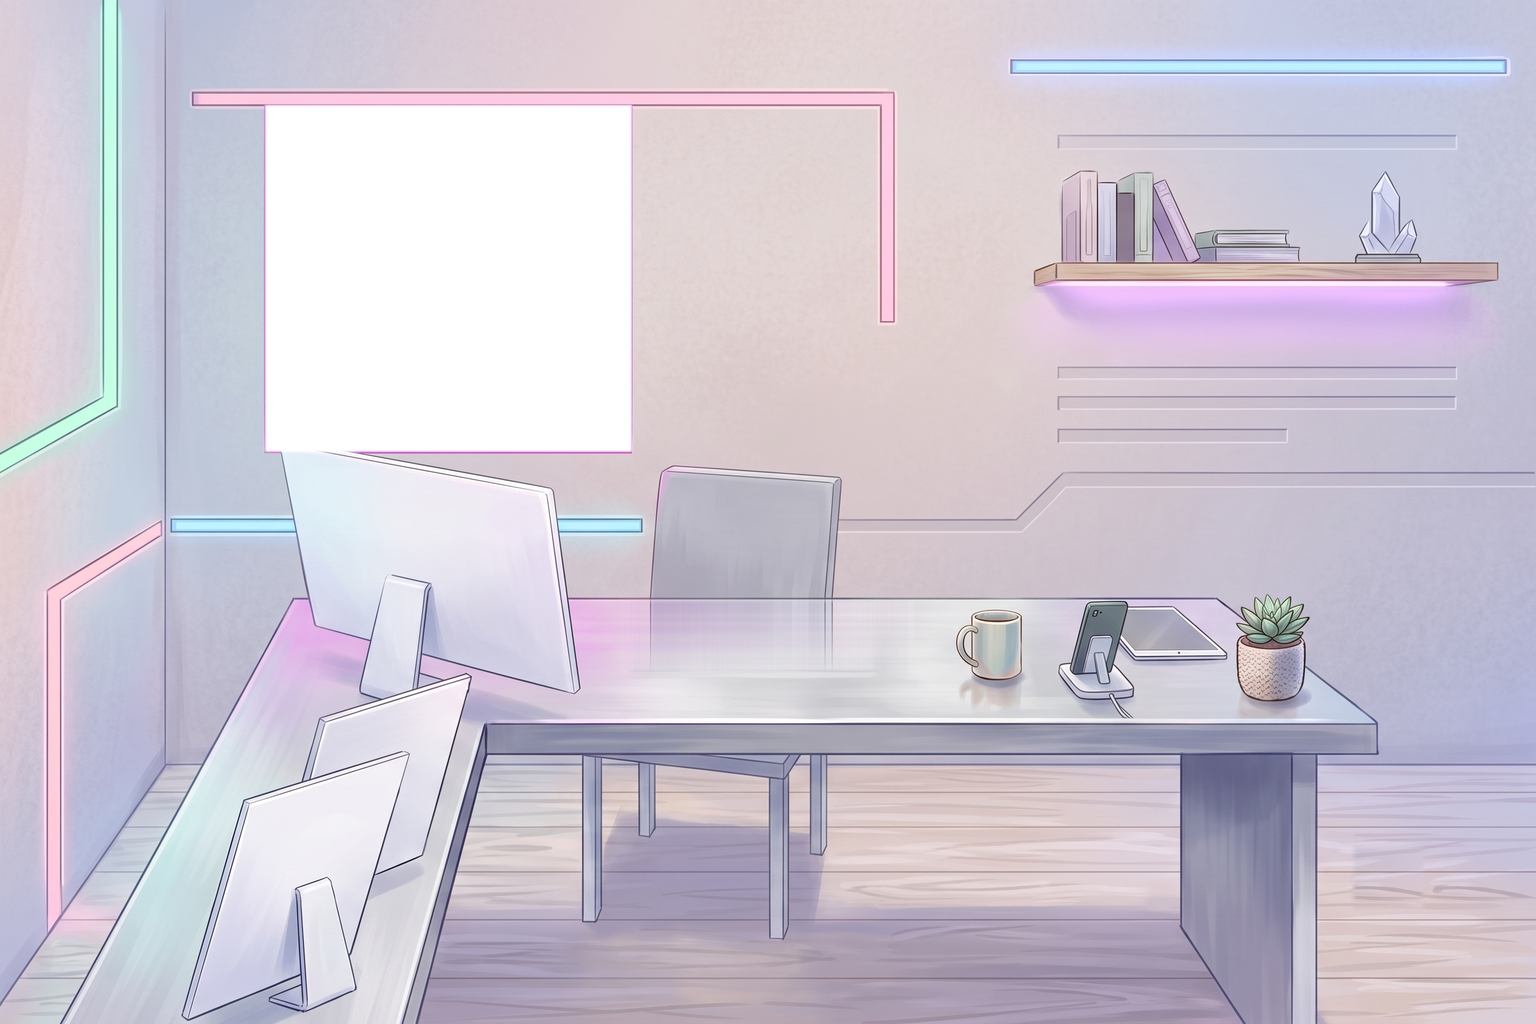
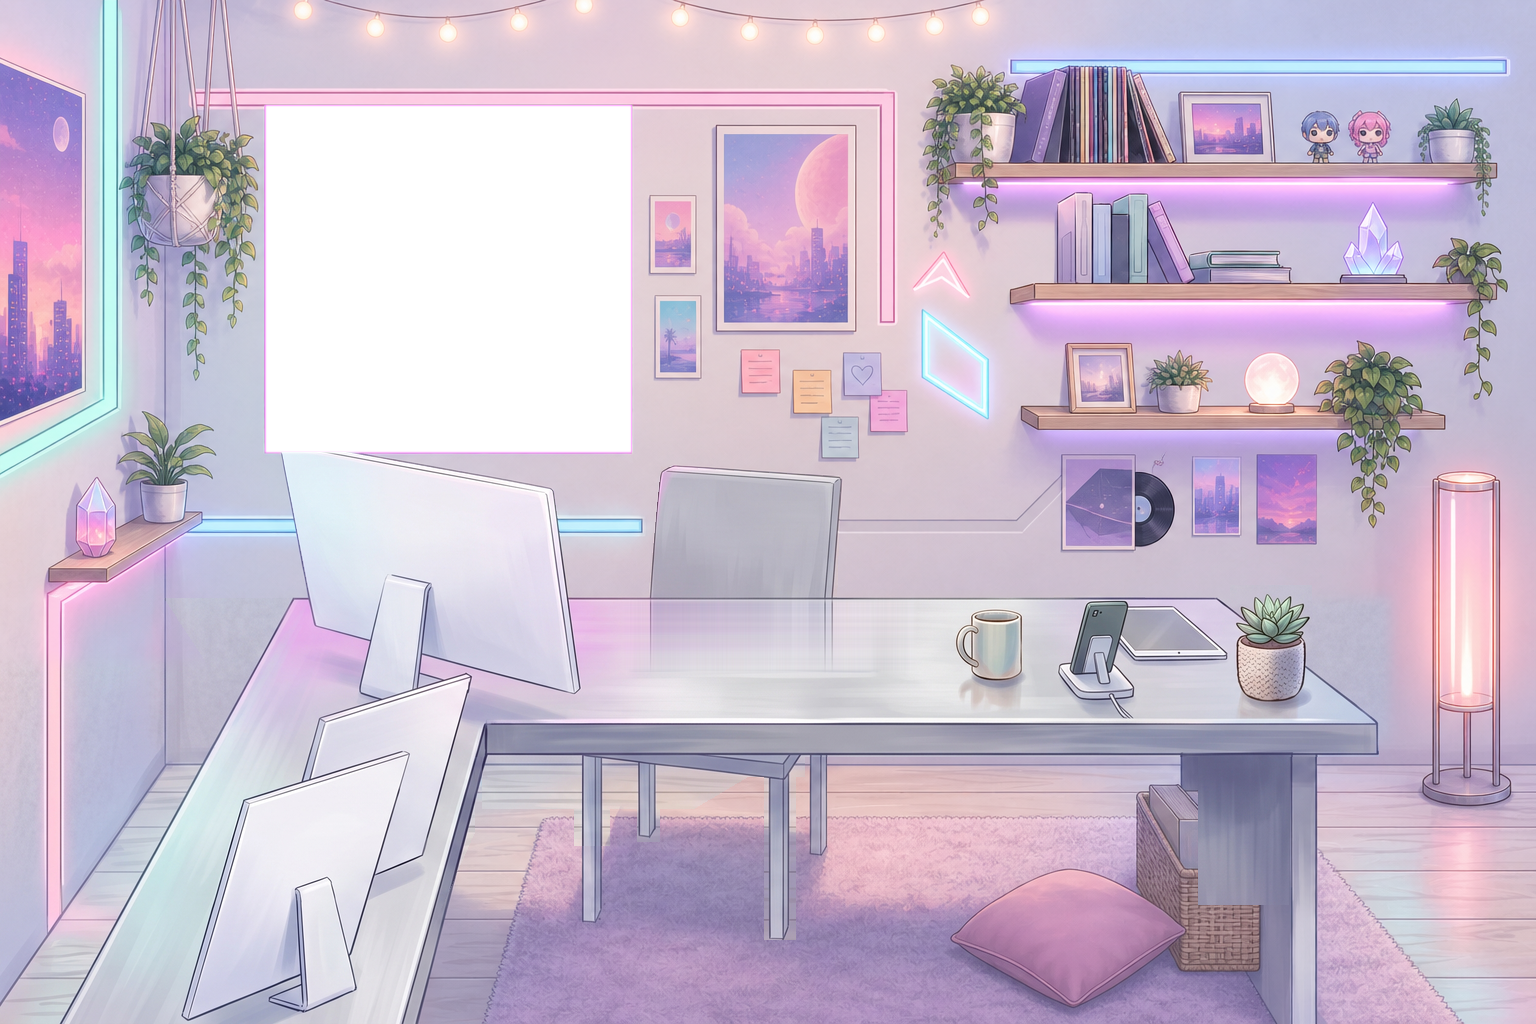
房间加细节：墙饰、层架、地毯、灯串
用 codex 的 image_gen 做图生图，构图原样不动。回来量了三条：
窗洞漂 1px、逐列桌沿中位差 0px、显示器右缘没动，所以键盘和手那套
反推出来的位置全部照旧（measure_hands 仍然 ✓）。

品红窗洞回来不是纯色了（整张只剩 1 个精确像素），按原坐标重新盖了一块。
判据脚本 scene_drift.py 一并入库。

顺手补回 measure_hands 里被我改掉的显示器边界检查。

diff --git a/Scripts/scene_drift.py b/Scripts/scene_drift.py
@@ -1,0 +1,110 @@
+#!/usr/bin/env python3
+"""比一比重绘前后，构图漂了多少。
+
+    python3 Scripts/scene_drift.py 旧图 新图
+
+## 为什么需要它
+
+场景是「灰模 → 重绘 → 切层」出来的（见 HANDOFF 第二节）。切层用的是
+灰模自带的那张**固定遮罩**，运行时房间、角色、桌子、手四层还要像素级对齐。
+所以重绘只许改颜色和细节，**不许挪构图**——挪了的话：
+
+- 桌沿一动，键盘和手就穿进桌面（键盘的 3D 位置是从画布第 602 行反推的）
+- 显示器一动，`measure_hands.MONITOR_EDGE_X` 那条硬边界就失效（第 40 条）
+- 窗洞一动，`scene.json` 里的 `room_window` 和程序化天空就对不上
+
+模型嘴上说"保持构图不变"是不算数的，得量。这三条正好对应上面三件事。
+
+判据（实测 Gemini 重绘那一版的水平：窗洞误差 3–9 像素）：
+
+- **窗洞**：四条边各差几像素。超过 12 像素就得重新切层并更新 `scene.json`
+- **桌沿**：逐列找桌板上沿，比中位数和 95 分位。中位数超过 3 像素就别用了,
+  桌沿是道由虚到实的窄带，差几像素就会横穿她的小臂（第 26 条）
+- **显示器右缘**：和 `measure_hands.MONITOR_EDGE_X` 对照，变了就要改那个常数
+"""
+import argparse
+import os
+import sys
+
+import numpy as np
+from PIL import Image
+
+sys.path.insert(0, os.path.dirname(os.path.abspath(__file__)))
+from cut_scene import window_rect
+
+
+def desk_edge(rgb, mask, band=40):
+    """逐列找桌板上沿：在遮罩给出的粗略位置附近，取纵向梯度最大的那一行。
+
+    **不能直接用遮罩的上沿**——那是灰模画的，重绘之后画上去的桌沿会落在
+    附近但不一定重合。要在图像自己身上找那道边，才量得出漂移。
+    """
+    grey = np.asarray(rgb.convert("L"), np.float32)
+    top = np.full(grey.shape[1], -1)
+    for x in range(grey.shape[1]):
+        col = np.where(mask[:, x] > 128)[0]
+        if len(col) == 0:
+            continue
+        y0 = max(col[0] - band, 1)
+        y1 = min(col[0] + band, grey.shape[0] - 1)
+        if y1 - y0 < 4:
+            continue
+        g = np.abs(grey[y0 + 1:y1 + 1, x] - grey[y0:y1, x])
+        top[x] = y0 + int(np.argmax(g))
+    return top
+
+
+def monitor_edge(rgb, lo=440, hi=660, rows=(600, 690)):
+    """画上去那台显示器的右缘 x。取几行里最靠右的强纵向边缘。"""
+    grey = np.asarray(rgb.convert("L"), np.float32)
+    out = []
+    for y in rows:
+        if y >= grey.shape[0]:
+            continue
+        row = grey[y, lo:hi]
+        g = np.abs(row[1:] - row[:-1])
+        if g.size and g.max() > 4:
+            out.append(lo + int(np.argmax(g)))
+    return max(out) if out else None
+
+
+def main():
+    ap = argparse.ArgumentParser()
+    ap.add_argument("before")
+    ap.add_argument("after")
+    ap.add_argument("--mask", default="Art/blocking/mask_desk.png")
+    a = ap.parse_args()
+
+    mask_img = Image.open(a.mask).convert("L")
+    W, H = mask_img.size
+    mask = np.asarray(mask_img)
+    old = Image.open(a.before).convert("RGB").resize((W, H), Image.LANCZOS)
+    new = Image.open(a.after).convert("RGB").resize((W, H), Image.LANCZOS)
+
+    r0, _ = window_rect(old)
+    r1, _ = window_rect(new)
+    if r0 and r1:
+        d = [b - a_ for a_, b in zip(r0, r1)]
+        worst = max(abs(v) for v in d)
+        print(f"窗洞 {r0} → {r1}  四边差 {d}  最大 {worst}px"
+              f"{'' if worst <= 12 else '  ✗ 窗洞挪了，得重切层并更新 scene.json'}")
+    else:
+        print(f"窗洞 旧={r0} 新={r1}  ✗ 有一边找不到纯品红矩形")
+
+    e0, e1 = desk_edge(old, mask), desk_edge(new, mask)
+    ok = (e0 >= 0) & (e1 >= 0)
+    if ok.sum():
+        d = np.abs(e1[ok] - e0[ok])
+        med, p95 = float(np.median(d)), float(np.percentile(d, 95))
+        print(f"桌沿 {int(ok.sum())} 列  中位差 {med:.1f}px  95分位 {p95:.1f}px"
+              f"{'' if med <= 3 else '  ✗ 桌子挪了，键盘和手会穿进桌面'}")
+    else:
+        print("桌沿 量不到")
+
+    m0, m1 = monitor_edge(old), monitor_edge(new)
+    print(f"显示器右缘 x {m0} → {m1}"
+          f"{'' if m0 == m1 else '  ← 变了就要同步改 measure_hands.MONITOR_EDGE_X'}")
+
+
+if __name__ == "__main__":
+    main()

diff --git a/Blender/measure_hands.py b/Blender/measure_hands.py
@@ -207,6 +207,18 @@ def measure(press=0.0, side_first="L"):
               f"  袖口外露肉 {max(out, 0) * 1000:.1f}mm"
               f"{'' if out < 0.002 else '  ✗ 胳膊钻出来了'}")
 
+    # 键盘和手有没有压到画上去的显示器上。这是条**硬边界**（第 40 条）：
+    # 键盘和手画在桌面层之上，撞上去就是穿模，加挡板也救不了——
+    # 往左挪键盘的时候她的右手也会一起进显示器的轮廓。
+    kbd_x = min(canvas(kbd.matrix_world @ Vector(c))[0] for c in kbd.bound_box)
+    hand_x = min(canvas(arm.matrix_world
+                        @ arm.pose.bones[f"J_Bip_R_{b}"].tail)[0]
+                 for b in ("Hand", "Thumb3", "Index3", "Middle3",
+                           "Ring3", "Little3"))
+    ok = "✓" if kbd_x >= MONITOR_EDGE_X else "✗ 键盘压在显示器上了"
+    print(f"  键盘左缘 x={kbd_x:.0f}，右手最左 x={hand_x:.0f}，"
+          f"显示器右缘 x={MONITOR_EDGE_X}  {ok}")
+
 
 if __name__ == "__main__":
     measure(press=0.0)

diff --git a/HANDOFF.md b/HANDOFF.md
@@ -187,6 +187,38 @@ python3 Scripts/dewatermark.py Art/scene_empty.png --box 2220 1395 2350 1512 \
 python3 Scripts/cut_scene.py Art/scene_empty_clean.png --out Assets
 ```
 
+### 加细节：codex 的 image_gen（不用再手动上传了）
+
+用户的 GPT Plus 带 codex，codex 有内置的 `image_gen`，**能做图生图**，
+所以"往房间里加东西"这件事现在可以自己跑：
+
+```bash
+codex exec --cd 工作目录 --dangerously-bypass-approvals-and-sandbox "$(cat 任务.md)"
+```
+
+几条实测出来的：
+
+- **喂 1536×1024，别喂原始的 2528×1696。** 大图那次跑了四十分钟一张图都没出，
+  卡死在那儿。管线本来也会把重绘图缩到遮罩尺寸（1536×1024），大图没意义
+- 生成的图落在 `~/.codex/generated_images/<会话>/<调用>.png`，
+  codex 自己不会放到工作目录，要在提示里让它拷过去（或者自己去捡）
+- 提示里要**逐条列出不许动的东西**（品红窗洞、桌子、显示器、椅子、桌上物件、
+  机位），它会照做，还会自己把保护区从原图贴回去。实测窗洞漂 1 像素、
+  桌沿中位差 0 像素、显示器右缘一点没动
+- **回来的品红不是纯的**（整张图只剩 1 个精确的 #FF00FF 像素）。
+  `cut_scene.window_rect` 的容差够宽、还是找得到，但**照原坐标重新盖一块纯品红**
+  更保险，一行 numpy 的事
+
+改完必须量，判据见 `Scripts/scene_drift.py`：
+
+```bash
+python3 Scripts/scene_drift.py 旧图 新图     # 窗洞 / 桌沿 / 显示器右缘
+python3 Scripts/cut_scene.py Art/scene_rich.png --out Assets
+```
+
+`Art/scene_rich_raw.png` 是 codex 直出，`Art/scene_rich.png` 是补过品红的，
+切层用后者。
+
 **重绘出来的图右下角有 Gemini 的水印，必须擦。** 这个漏了很久才被发现——
 `Art/scene_empty.png` 保持原样不动（它是重绘的原始产物），
 擦完写到 `scene_empty_clean.png` 再切层。
@@ -654,6 +686,12 @@ y=267 的头顶，腿根本影响不到那里。判据要改成**按阈值二值
 - **袖子盖没盖住手腕**：同上那个脚本，最后两行。正数的"越过手腕"才算盖住；
   "袖口外露肉"要恒为 0。两条都只能在**摆完姿势**的网格上量，
   只取小臂那段皮肤，而且只查广袖袖口以外那一小段（第 45 条）
+- **重绘/加细节之后构图漂没漂**：`Scripts/scene_drift.py`。三个数各自对应一件事——
+  窗洞（程序化天空对不对得上）、逐列桌沿（键盘和手会不会穿进桌面）、
+  显示器右缘（`measure_hands.MONITOR_EDGE_X` 那条硬边界还成不成立）。
+  模型嘴上说"保持构图"是不算数的。**注意桌沿那个数的 95 分位会被新加的墙饰
+  骗高**——它在桌板上沿附近找最强的纵向梯度，墙上新贴的海报边缘也是强梯度。
+  中位数才是该看的那个
 - **分层合成有没有露馅**：按 app 的真实层序（房间 → 上半身+腿 → 桌子 → 键盘+手）
   把整张图拼出来，**看整张，别只放大看一小块**。而且要反过来问
   "有没有不该出现的东西"——手穿桌子那五轮，每一轮我都在确认"手在不在键盘上"，
@@ -765,6 +803,11 @@ open dist/WithSnozzy.app
 # 场景重出（改完 blocking.py 之后）
 python3 Scripts/blocking.py && cp Art/blocking/layout.png Art/blocking_for_repaint.png
 
+# 给房间加细节（codex 图生图）→ 量漂移 → 切层
+codex exec --cd 工作目录 --dangerously-bypass-approvals-and-sandbox "$(cat 任务.md)"
+python3 Scripts/scene_drift.py Art/scene_empty_clean.png Art/scene_rich.png
+python3 Scripts/cut_scene.py Art/scene_rich.png --out Assets
+
 # 角色重出（改完 pose.py 的 LEG_POSES 之后）。约 2 分钟
 B=/Applications/Blender.app/Contents/MacOS/Blender
 $B --background --factory-startup --python Blender/render_poses.py  -- Snozzy.vrm /tmp/poses
@@ -791,6 +834,7 @@ dist/WithSnozzy.app/Contents/MacOS/WithSnozzy --handstrip /tmp/hands.png
 
 用户的机器：16GB M 系列 Mac，走 ClashX 代理（`127.0.0.1:7890`）。
 **本地跑不动扩散模型**（float32+768 会被 OOM 杀掉），生图一律走网页手动或 API。
-`GEMINI_API_KEY` 在 `~/.zshrc` 里，但那个 key 的图像模型免费额度是零，
-`Scripts/repaint.py --fit` 这条路（用户手动在网页生成、我负责对齐和抠图）
-不消耗额度。
+`GEMINI_API_KEY` 在 `~/.zshrc` 里，但那个 key 的图像模型免费额度是零。
+**现在生图走 codex**（用户的 GPT Plus，`codex login status` 显示已登录），
+见第二节"加细节"那一小节。`Scripts/repaint.py --fit` 那条老路还在，
+用户手动在网页生成、我负责对齐和抠图，不消耗额度。

diff --git a/Art/scene_rich_prompt.md b/Art/scene_rich_prompt.md
@@ -1,0 +1,32 @@
+用 image_gen 的**图像编辑**能力处理当前目录下的 `room_base.png`，把结果保存为当前目录下的 `room_rich.png`。
+
+这是一个 lofi 桌面陪伴应用的房间背景（1536×1024）。问题是**太空**：墙面大片留白，
+桌上只有三两件东西。要在**完全不改构图**的前提下把它填得丰富、耐看。
+
+## 必须原样保留（下游按像素对齐切图，动了就报废）
+
+- 那块**纯品红（#FF00FF）矩形**：窗洞占位色。位置、大小、纯度都不能变，
+  不许加窗框、不许加辉光、不许改色调
+- **桌子**：桌面高度、前后沿、桌腿、桌板轮廓，一个像素都不能动
+- **左边那台显示器**、椅子、桌上的马克杯／手机支架／平板／多肉：位置不变
+- **相机**：视角、透视、地平线、消失点不变。不许推近拉远、不许换机位
+
+## 要加的
+
+风格是**明亮干净的赛博朋克**：浅色墙、木地板、柔和的粉色和青色灯带。
+
+- 墙面：海报、挂画、便签墙、发光装饰线条，把大片空白填上
+- 层架：现在只有一层，补一两层小搁板，摆唱片、相框、手办、小盆栽
+- 地面：地毯、坐垫、桌下收纳筐、桌边落地灯
+- 氛围：一串暖色小灯（fairy lights）、几株垂吊植物、窗边小摆件
+- 细节：木地板纹理、墙面微妙渐变、灯带在墙和地板上的柔和反光
+
+## 绝对不要
+
+裸露线缆、管道、机架、锈迹、金属工业风、重阴影、脏乱街头感。
+不要压暗画面、不要加强对比。不要简笔画。不要加人和动物。
+
+## 输出
+
+`room_rich.png`，尺寸 1536×1024（生成后用 sips 缩到这个尺寸）。
+做完在回答里说明品红矩形和桌子有没有动。
